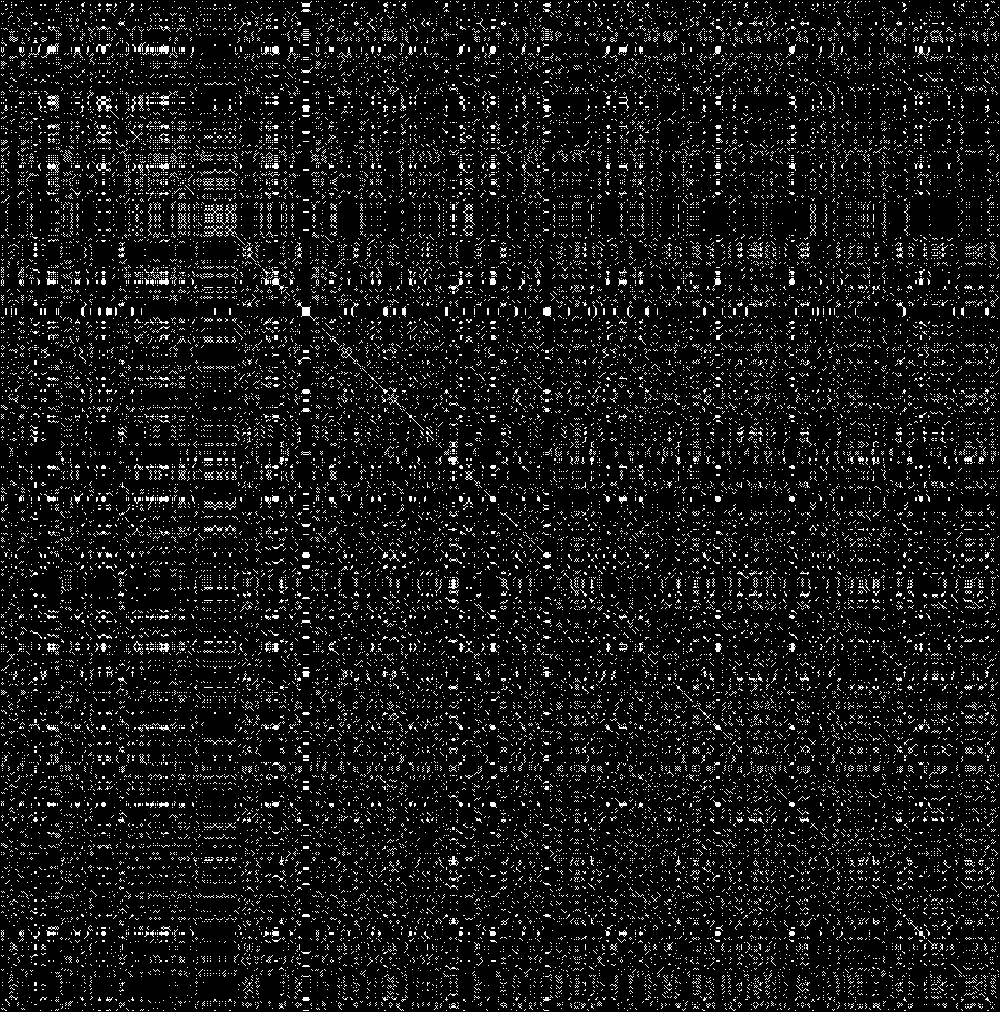
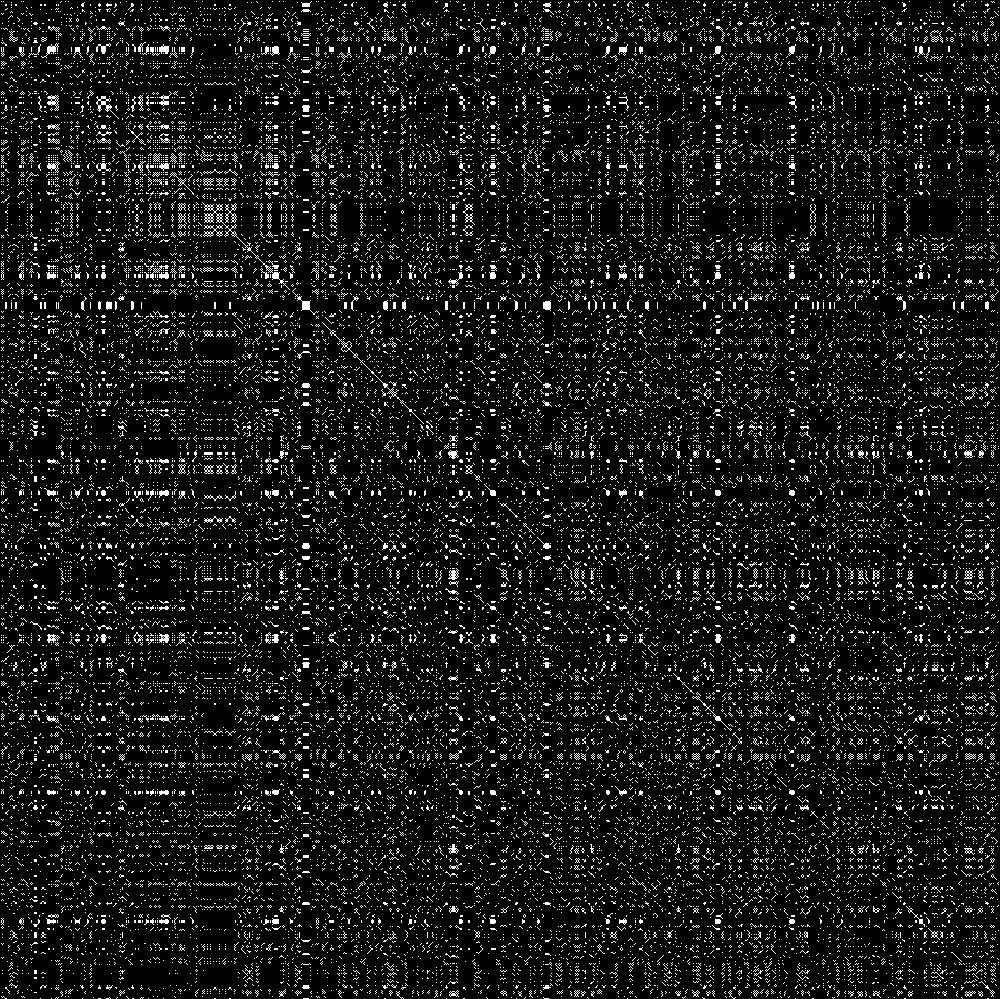
filtro secuencial

diff --git a/src/secuencial.py b/src/secuencial.py
@@ -3,8 +3,64 @@ import time
 from Bio import SeqIO
 from PIL import Image
 import numpy as np
-from scipy.signal import convolve2d
-import concurrent.futures
+from multiprocessing import Pool
+
+def aplicar_filtro_seccion(args):
+    pixels, inicio, fin, ancho = args
+    # Kernel de Sobel para bordes verticales
+    kernel_y = np.array([
+        [0.4, -0.001, 0.4],
+        [-0.001, 0.4, -0.001],
+        [0.4, -0.001, 0.4]
+    ])
+
+    # Sección con espacio para superposición
+    seccion_ampliada = pixels[inicio-1:fin+1, :] if inicio > 0 else pixels[inicio:fin+1, :]
+    bordes_seccion = np.zeros_like(seccion_ampliada, dtype=np.uint8)
+
+    for i in range(1, seccion_ampliada.shape[0] - 1):
+        for j in range(1, ancho - 1):
+            gy = np.sum(np.multiply(seccion_ampliada[i-1:i+2, j-1:j+2], kernel_y))
+            bordes_seccion[i, j] = min(255, np.abs(gy))
+
+    # Eliminar la fila adicional al final si no es la última sección
+    if fin != pixels.shape[0]:
+        bordes_seccion = bordes_seccion[:-1, :]
+    # Eliminar la primera fila si no es la primera sección
+    if inicio > 0:
+        bordes_seccion = bordes_seccion[1:, :]
+
+    return bordes_seccion
+
+
+# Esta función se encarga de gestionar los procesos y los "pedazos" de imagen que le manda a cada proceso.
+
+def aplicar_filtro_bordes_multiprocessing(imagen):
+    pixels = np.array(imagen)
+    alto, ancho = pixels.shape
+    num_procesos = 1
+
+    # Dividir la imagen en secciones con superposición
+    seccion_alto = alto // num_procesos
+    secciones = []
+    for i in range(num_procesos):
+        inicio = i * seccion_alto
+        fin = (i + 1) * seccion_alto if i != num_procesos - 1 else alto
+        if i == 0:
+            fin += 3
+        if i != 0:
+            inicio -= 3  # Superposición para cubrir bordes
+        secciones.append((pixels, inicio, fin, ancho))
+
+    # Crear un pool de procesos y aplicar el filtro a cada sección
+    with Pool() as pool:
+        resultados = pool.map(aplicar_filtro_seccion, secciones)
+
+    # Combinar los resultados
+    bordes = np.vstack(resultados)
+
+    return bordes
+
 
 def dotplot_secuencial(seq1, seq2):
     dotplot = [[0 for _ in range(len(seq2))] for _ in range(len(seq1))]
@@ -28,12 +84,9 @@ def guardar_dotplot_imagen(dotplot, file_output):
 
     for i in range(img.size[0]):
         for j in range(img.size[1]):
-            pixels[i, j] = dotplot[j][i]
+            pixels[i, j] = int(dotplot[j][i])
 
     img.save(file_output)
-
-def aplicar_convolucion(dotplot, filtro):
-    return convolve2d(dotplot, filtro, mode='same', boundary='fill', fillvalue=0).tolist()
 
 def main():
     parser = argparse.ArgumentParser(description='Dotplot secuencial')
@@ -59,20 +112,14 @@ def main():
     end_time = time.time()
 
     print(f"Tiempo de ejecución: {end_time - start_time} segundos")
-
-    # Aplicar convolución
-    filtro_diagonal = np.array([[1, 1, 1],
-                                [1, 1, 1],
-                                [1, 1, 1]])
-
-    with concurrent.futures.ThreadPoolExecutor() as executor:
-        dotplot_diagonal = executor.submit(aplicar_convolucion, dotplot, filtro_diagonal).result()
-
+        
     # Guardar dotplot en archivo de texto
     guardar_dotplot_txt(dotplot, args.output_txt_no_f)
 
     # Guardar dotplot como imagen
     guardar_dotplot_imagen(dotplot, args.output_img_no_f)
+
+    dotplot_diagonal = aplicar_filtro_bordes_multiprocessing(dotplot)
 
     # Guardar dotplot en archivo de texto
     guardar_dotplot_txt(dotplot_diagonal, args.output_txt)
